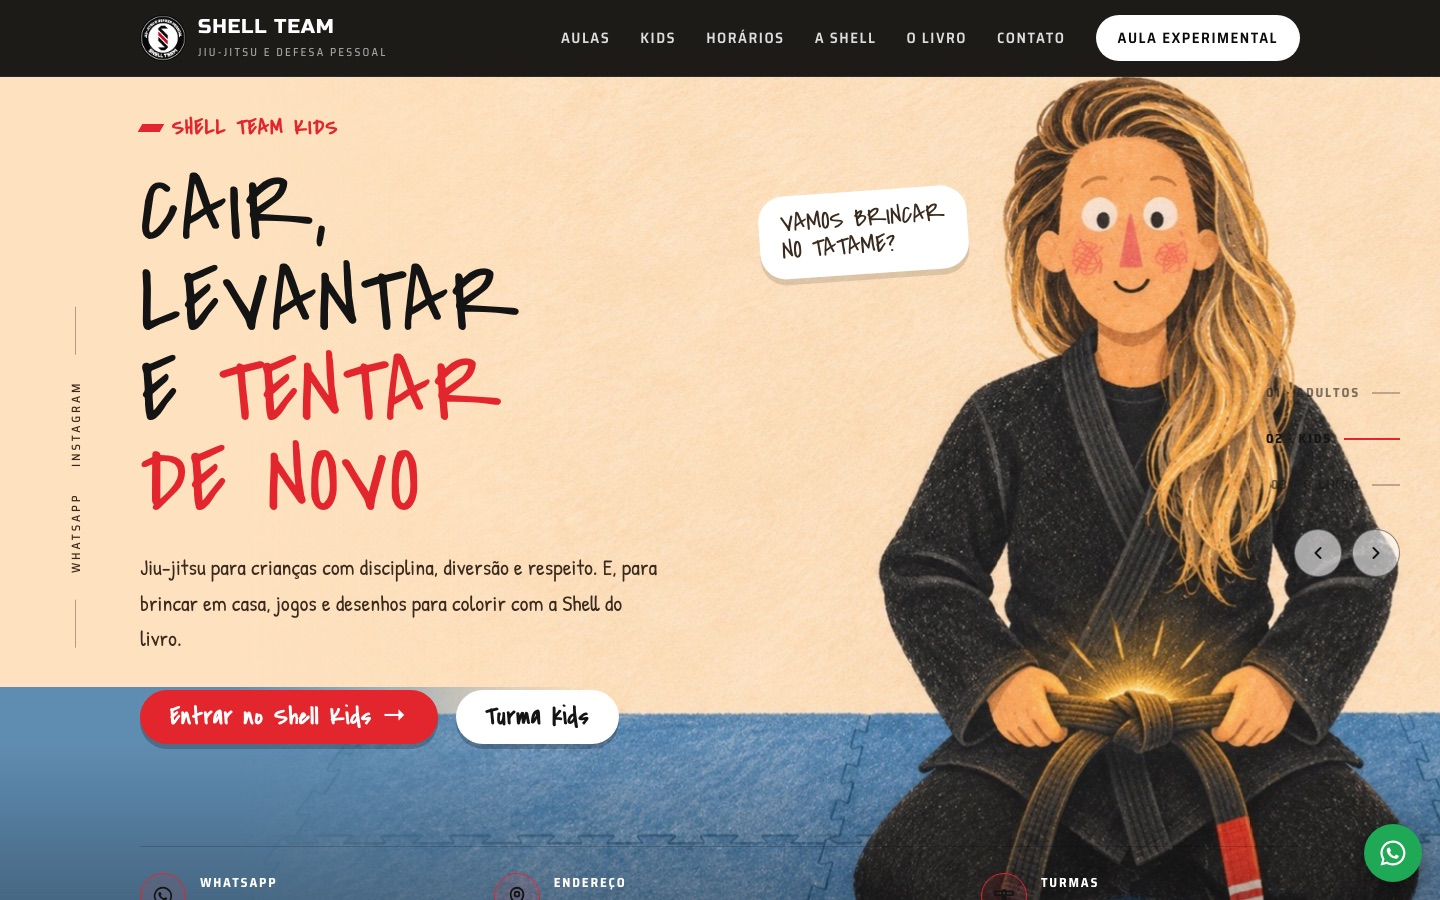
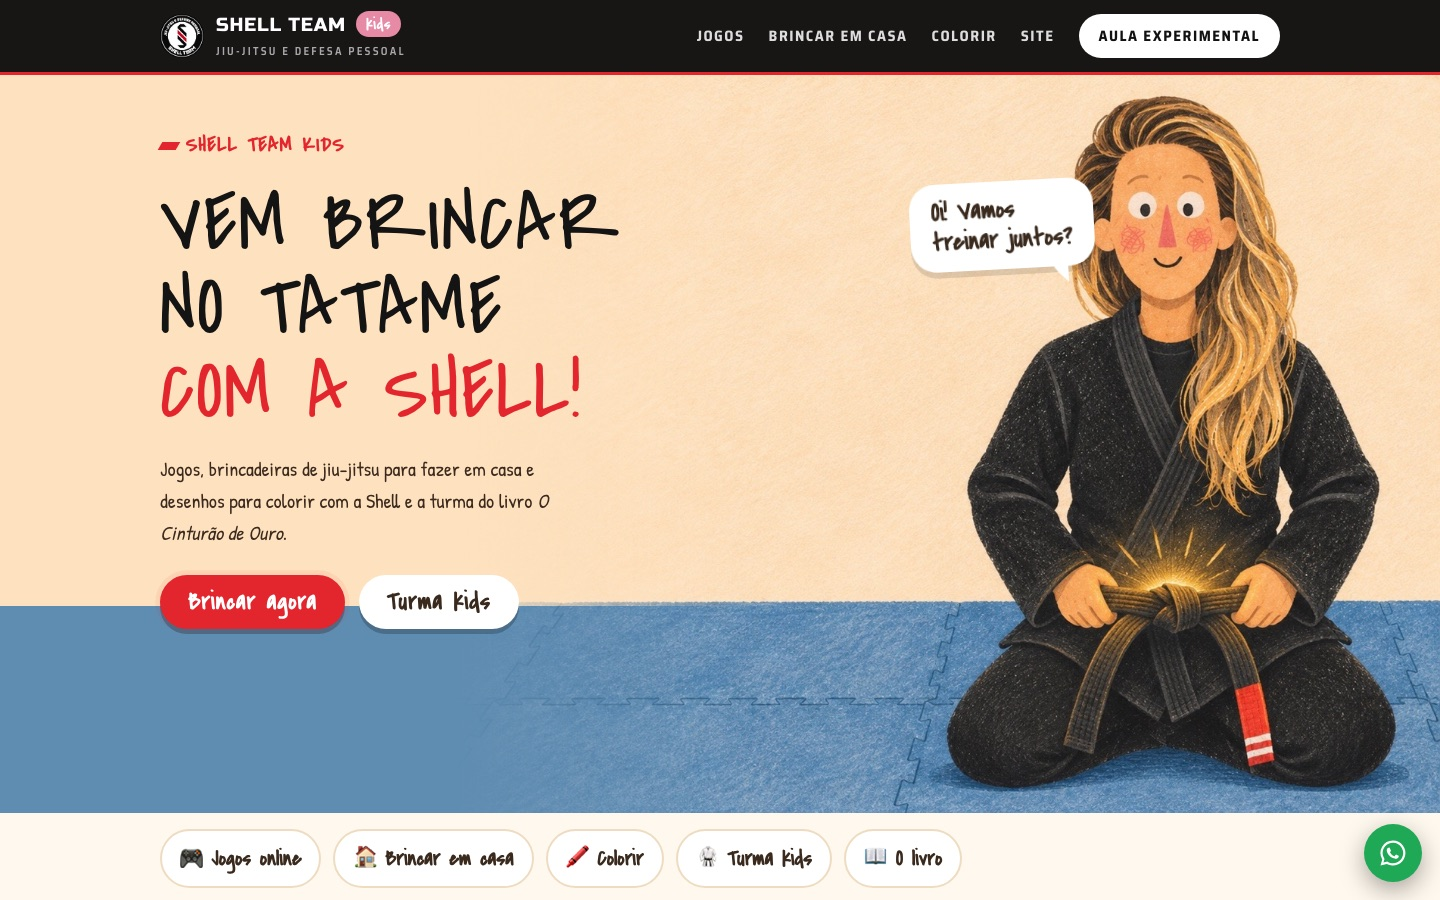
Incluir o site da Shell Team nos projetos em destaque
Três telas atuais do site (Shell Kids, página inicial e pré-venda do
livro O Cinturão de Ouro) e texto do projeto em PT, EN, ES e FR.

diff --git a/src/dobra/copy.ts b/src/dobra/copy.ts
@@ -628,4 +628,38 @@ export const projectCopy: Record<string, Record<Lang, ProjectCopy>> = {
       impact: 'L’enfant lit le poème, fabrique l’instrument et joue avec le rythme, comme le propose le sous-titre « pour jouer et rythmer ».',
     },
   },
+  'shell-team': {
+    pt: {
+      kind: 'Site · academia e livro infantil',
+      role: 'Design e construção do site',
+      headline: 'Um site para uma academia de jiu-jitsu que fala com adultos, pais e crianças, e ainda vende um livro.',
+      problem: 'A Shell Team, no Córrego Grande, em Florianópolis, tem turmas de adultos e kids e um livro infantil próprio, O Cinturão de Ouro. O site precisava levar à aula experimental, divertir as crianças e abrir a pré-venda do livro.',
+      solution: 'Desenhei e construí três frentes com uma mesma marca: o site da academia, com foto de treino e tipografia de cartaz; a área Shell Kids, ilustrada com a personagem do livro, com jogos, brincadeiras e desenhos para colorir; e a página de pré-venda do livro.',
+      impact: 'Site no ar, com aulas, horários, contato por WhatsApp, área Kids e pré-venda do livro. Código aberto no GitHub.',
+    },
+    en: {
+      kind: 'Website · gym and children’s book',
+      role: 'Site design and build',
+      headline: 'A website for a jiu-jitsu gym that speaks to adults, parents and kids, and sells a book too.',
+      problem: 'Shell Team, in Florianópolis, runs adult and kids’ classes and has its own children’s book, O Cinturão de Ouro. The site had to lead to a trial class, entertain children and open the book’s pre-sale.',
+      solution: 'I designed and built three fronts under one brand: the gym site, with training photography and poster typography; the Shell Kids area, illustrated with the book’s character, with games, activities and colouring pages; and the book’s pre-sale page.',
+      impact: 'Live site with classes, timetable, WhatsApp contact, a Kids area and the book pre-sale. Open source on GitHub.',
+    },
+    es: {
+      kind: 'Sitio web · academia y libro infantil',
+      role: 'Diseño y desarrollo del sitio',
+      headline: 'Un sitio para una academia de jiu-jitsu que habla con adultos, padres y niños, y además vende un libro.',
+      problem: 'Shell Team, en Florianópolis, tiene clases para adultos y niños y su propio libro infantil, O Cinturão de Ouro. El sitio tenía que llevar a la clase de prueba, entretener a los niños y abrir la preventa del libro.',
+      solution: 'Diseñé y desarrollé tres frentes con una misma marca: el sitio de la academia, con fotos de entrenamiento y tipografía de cartel; el área Shell Kids, ilustrada con la protagonista del libro, con juegos, actividades y dibujos para colorear; y la página de preventa del libro.',
+      impact: 'Sitio publicado, con clases, horarios, contacto por WhatsApp, área Kids y preventa del libro. Código abierto en GitHub.',
+    },
+    fr: {
+      kind: 'Site web · club et livre jeunesse',
+      role: 'Design et développement du site',
+      headline: 'Un site pour un club de jiu-jitsu qui parle aux adultes, aux parents et aux enfants, et qui vend aussi un livre.',
+      problem: 'Shell Team, à Florianópolis, propose des cours adultes et enfants et publie son propre livre jeunesse, O Cinturão de Ouro. Le site devait mener au cours d’essai, amuser les enfants et ouvrir la prévente du livre.',
+      solution: 'J’ai conçu et développé trois volets sous une même marque : le site du club, avec photos d’entraînement et typographie d’affiche ; l’espace Shell Kids, illustré avec l’héroïne du livre, avec jeux, activités et coloriages ; et la page de prévente du livre.',
+      impact: 'Site en ligne, avec cours, horaires, contact WhatsApp, espace Kids et prévente du livre. Code open source sur GitHub.',
+    },
+  },
 };

diff --git a/src/data/projects.ts b/src/data/projects.ts
@@ -31,6 +31,8 @@ import yoyoAbaUrso from '../assets/projects/yoyo-books/cover-aba-urso.jpg';
 import yoyoResolva from '../assets/projects/yoyo-books/cover-resolva.jpg';
 
 import shellTeamCover from '../assets/projects/shell-team/cover.jpg';
+import shellTeamHome from '../assets/projects/shell-team/index.jpg';
+import shellTeamLivro from '../assets/projects/shell-team/livro.jpg';
 
 import explorumCover from '../assets/projects/explorum/cover.jpg';
 import explorumRoda from '../assets/projects/explorum/p09.jpg';
@@ -291,12 +293,14 @@ export const projects: PortfolioProject[] = [
         en: 'The book’s character drives an illustrated identity; poster typography; an interactive timetable; a Kids area with games and colouring pages; a book pre-sale page.',
       },
       deliverables: {
-        pt: 'Site completo, no ar, com código aberto no GitHub.',
-        en: 'Complete live website, open source on GitHub.',
+        pt: 'Três frentes no ar: site da academia, área Shell Kids (jogos, brincadeiras e desenhos para colorir) e página de pré-venda do livro. Código aberto no GitHub.',
+        en: 'Three live fronts: the gym site, the Shell Kids area (games, activities and colouring pages) and the book pre-sale page. Open source on GitHub.',
       },
     },
     assets: [
-      { src: shellTeamCover, alt: 'Página inicial do site Shell Team, área Kids: ilustração da mestra de kimono e título "Cair, levantar e tentar de novo"', wide: true },
+      { src: shellTeamCover, alt: 'Área Shell Kids do site: ilustração da mestra de kimono segurando a faixa e o título "Vem brincar no tatame com a Shell!"', wide: true },
+      { src: shellTeamHome, alt: 'Página inicial do site Shell Team: foto de treino em preto e branco e o título "Treine jiu-jitsu de verdade"', wide: true },
+      { src: shellTeamLivro, alt: 'Página de pré-venda do livro O Cinturão de Ouro, com o livro em 3D e o selo de edição numerada', wide: true },
     ],
   },
 

diff --git a/src/dobra/Dobra.tsx b/src/dobra/Dobra.tsx
@@ -26,6 +26,7 @@ const FEATURED = [
   'explorum', // didático digital
   'comodines-transmedia', // kit editorial em espanhol
   'poemas-miudinhos', // livro infantil, capa e miolo
+  'shell-team', // site: academia, área kids e pré-venda de livro
 ];
 const COPIES = 3;
 
